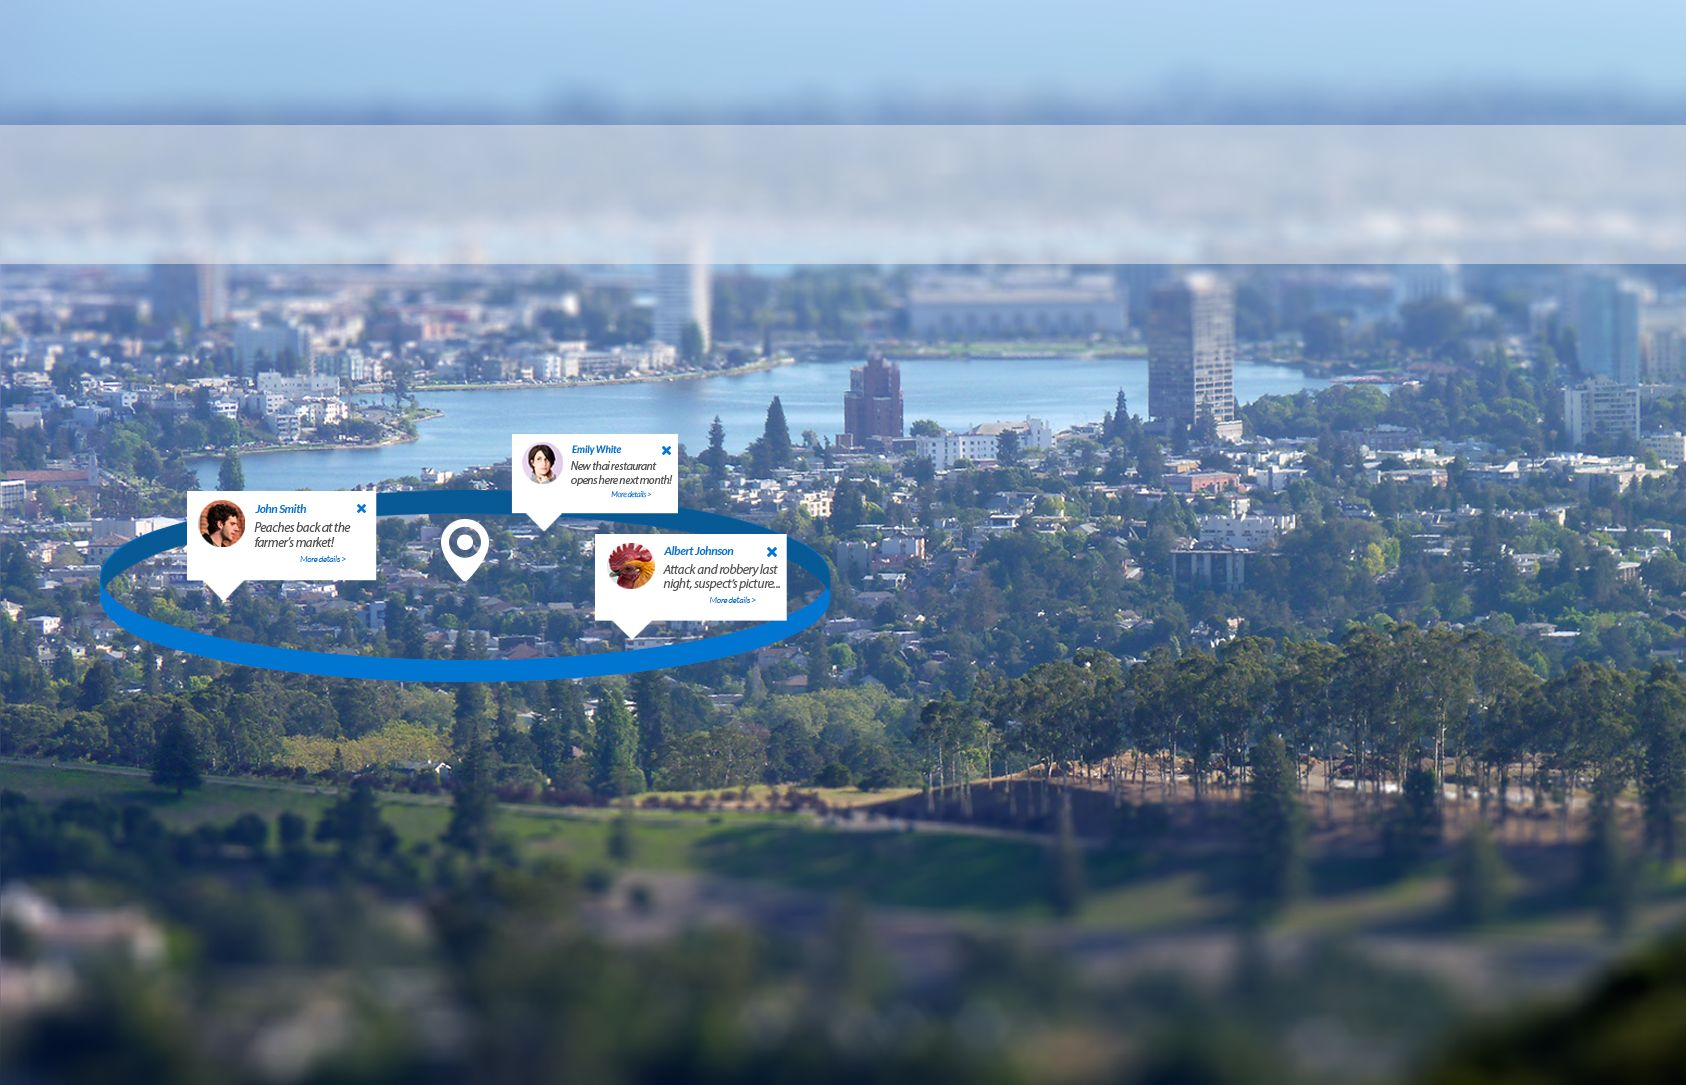
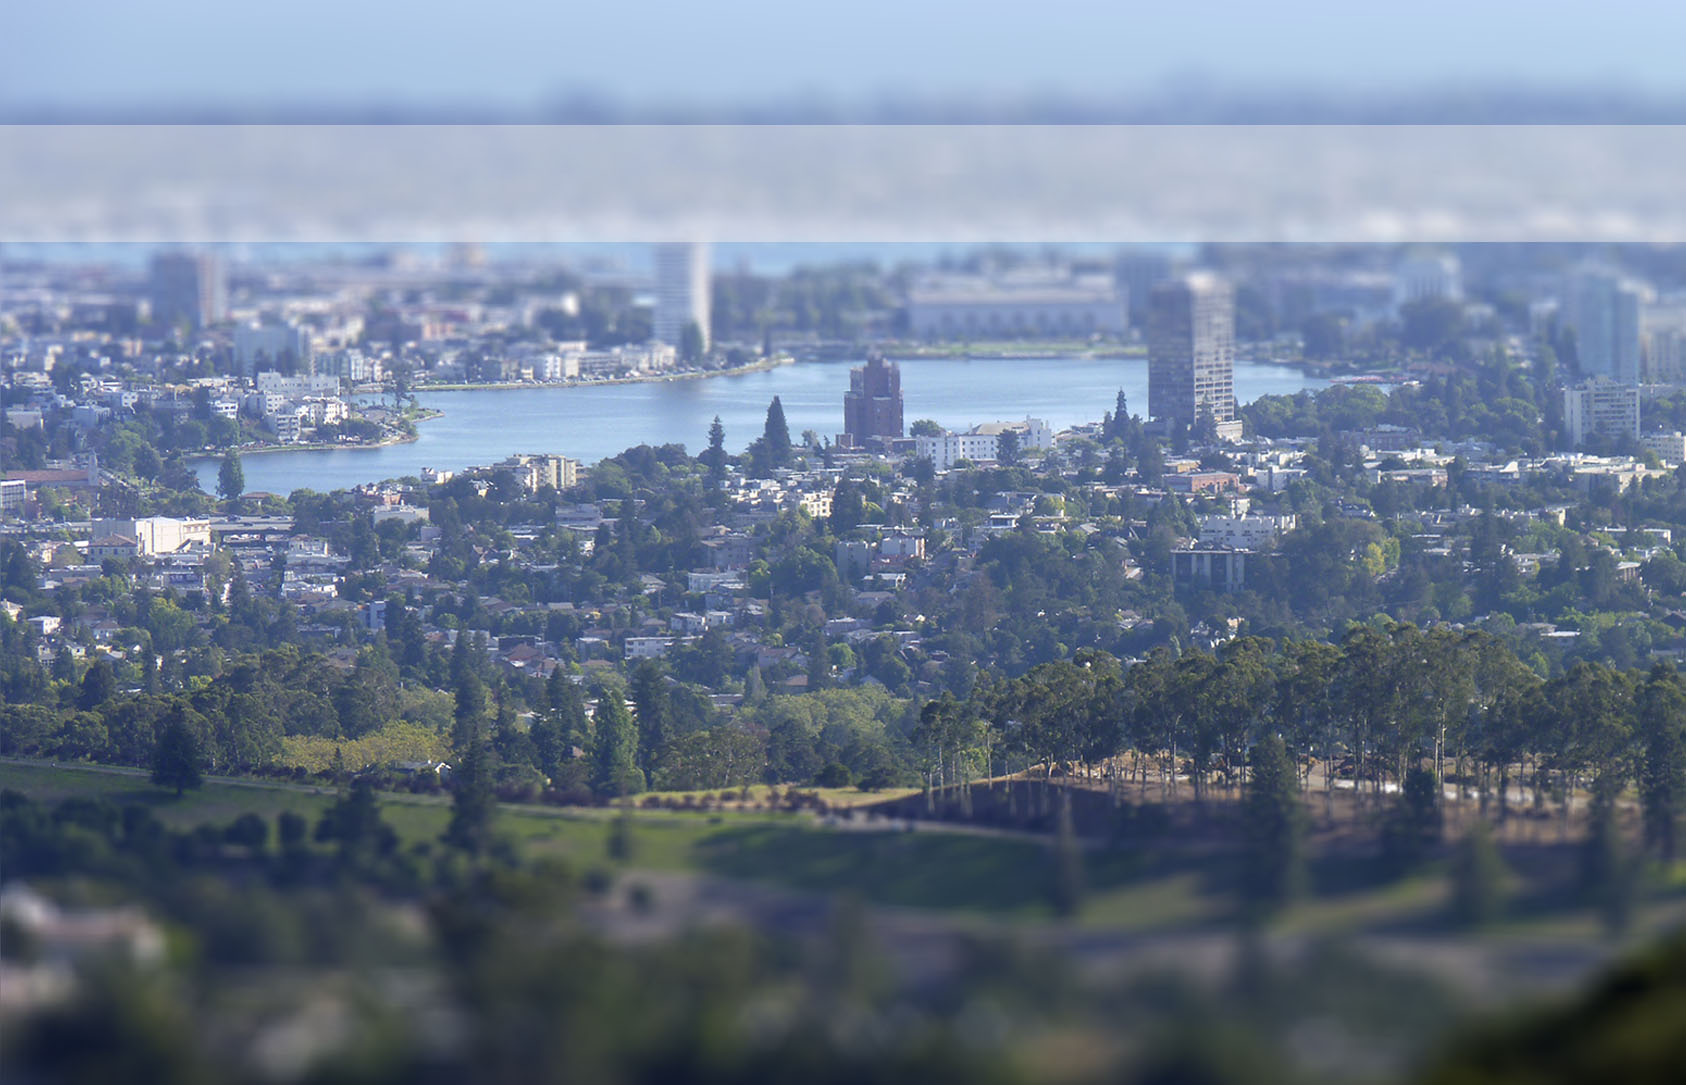
#18

Changed region(s): [[0.0617, 0.3954, 0.4935, 0.6387], [0.0, 0.2129, 1.0, 0.2433]]

diff --git a/www/css/global.css b/www/css/global.css
@@ -1,3 +1,4 @@
+@import url(http://fonts.googleapis.com/css?family=Lato:900);
 @font-face {
     font-family: 'Lato-Bold';
     src: url('fonts/Lato-Bold.eot');
@@ -716,9 +717,9 @@ table tr td input { border: 1px solid #d7d7d7;}
 
 .loginCopyArea .rightBoxArea{width:100%; text-align: center;}
 
+.users-popup{background: url('/www/images/users-popup.png') no-repeat center top; width: 732px; height: 296px; float: left; margin-left: -200px; margin-top: 75px;}
 
-
-.loginCopyArea .rightBoxArea h2 { font: normal 36px Lato-bold; color: #fff; margin-top: 5%; }
+.loginCopyArea .rightBoxArea h2 { font: 900 48px 'Lato'; color: #fff; margin-top: 22px; }
 
 .loginCopyArea .regForm{width:400px;float:right; background: #efeeee; padding:30px 0px 20px;}
 

diff --git a/application/views/scripts/index/index.html b/application/views/scripts/index/index.html
@@ -3,6 +3,9 @@
         <h2>See and Share What's Happening Near You</h2>
     </div> 
     <div class="leftBoxArea">
+        <div class="users-popup">
+            
+        </div><!-- users-popup end -->
         <div class="regForm afterClr">
 
            <div class="fbImageMw">
